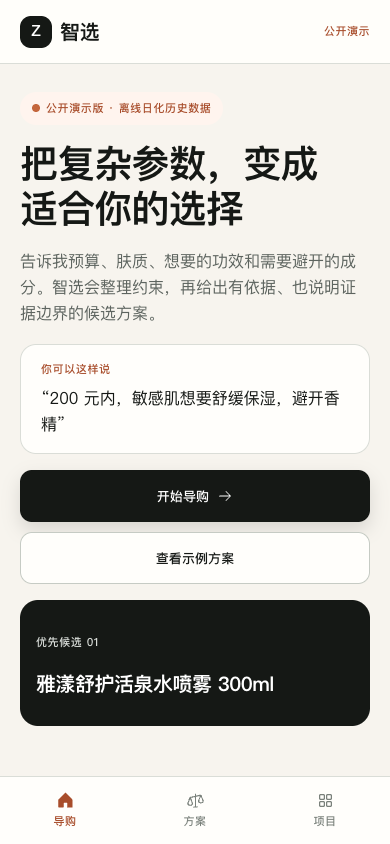
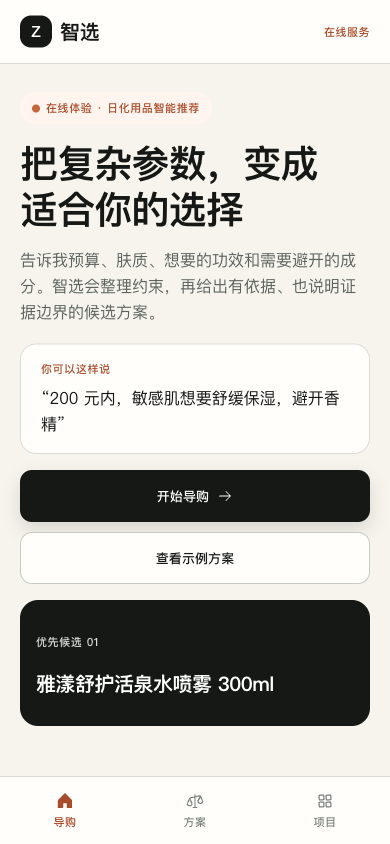
feat: connect Zhixuan to Doubao Agent Plan

diff --git a/app/page.tsx b/app/page.tsx
@@ -97,7 +97,7 @@ function Header({ view, onNavigate }: { view: View; onNavigate: (next: View) => 
         <button className={planActive ? 'is-active' : ''} type="button" onClick={() => onNavigate('results')}>我的方案</button>
         <button className={view === 'project' ? 'is-active' : ''} type="button" onClick={() => onNavigate('project')}>项目说明</button>
       </nav>
-      <span className="mobile-demo-label">公开演示</span>
+      <span className="mobile-demo-label">在线服务</span>
     </header>
   );
 }
@@ -367,7 +367,7 @@ export default function Home() {
     if (view === 'welcome') return (
       <section className="welcome-view">
         <div className="hero-copy">
-          <span className="demo-chip"><span />公开演示版 · 离线日化历史数据</span>
+          <span className="demo-chip"><span />在线体验 · 日化用品智能推荐</span>
           <h1 data-view-title tabIndex={-1}>把复杂参数，变成<br />适合你的选择</h1>
           <p>告诉我预算、肤质、想要的功效和需要避开的成分。智选会整理约束，再给出有依据、也说明证据边界的候选方案。</p>
           <div className="hero-actions">
@@ -378,13 +378,13 @@ export default function Home() {
             <span>你可以这样说</span><strong>“{defaultNeed}”</strong>
           </button>
           <div className="demo-disclosure"><Info aria-hidden="true" size={16} />豆包只解析当前需求；商品检索与证据约束在本地完成</div>
-          {dataError && <div className="inline-error"><span>演示数据暂时未载入。</span><button type="button" onClick={retryData}>重新载入</button></div>}
+          {dataError && <div className="inline-error"><span>商品数据暂时未载入。</span><button type="button" onClick={retryData}>重新载入</button></div>}
         </div>
         <div className="decision-preview">
           <div className="preview-heading"><h2>正在形成你的决策依据</h2><StatusChip tone={dataReady ? 'success' : 'warning'}>{dataReady ? '需求已确认' : '界面结构预览'}</StatusChip></div>
           <div className="preview-requirements"><span>面部护理</span><span>≤ ¥200</span><span>敏感肌</span><span>避开香精</span></div>
           <article className="preview-card">
-            <div><span className="priority-label">优先候选 01</span><strong>{previewTop ? '需求匹配分 ' + score(previewTop.score) : '等待演示数据'}</strong></div>
+            <div><span className="priority-label">优先候选 01</span><strong>{previewTop ? '需求匹配分 ' + score(previewTop.score) : '等待商品数据'}</strong></div>
             <h3>{previewTop?.product.name ?? '候选方案载入中'}</h3>
             <p>{previewTop?.product.description ?? '数据就绪后，这里会展示与预算、场景和优先条件对应的候选解释。'}</p>
             <div className="preview-tradeoff"><span>需要接受</span>{previewTop?.product.limitations ?? '同时说明候选的主要取舍'}</div>
@@ -419,7 +419,7 @@ export default function Home() {
               </div>
             )}
             {response && <div className="requirement-summary">{intentChips.map(([label, value]) => <div key={label}><span>{label}</span><strong>{value}</strong></div>)}</div>}
-            {dataError && <div className="inline-error"><span>演示数据暂时未载入。</span><button type="button" onClick={retryData}>重新载入</button></div>}
+            {dataError && <div className="inline-error"><span>商品数据暂时未载入。</span><button type="button" onClick={retryData}>重新载入</button></div>}
             <div className="composer-footer"><small>Ctrl / Command + Enter 快速提交</small><Button type="submit" disabled={!dataReady || !query.trim()} icon={<ArrowRight aria-hidden="true" size={16} />}>确认需求并推荐</Button></div>
           </form>
         </div>
@@ -573,10 +573,10 @@ export default function Home() {
         <div className="project-hero">
           <div>
             <span>项目说明 · 可复现 AI 产品作品集</span><h1 data-view-title tabIndex={-1}>从需求理解，到有依据的推荐决策</h1>
-            <p>智选是一个面向中文日化选品的公开演示：豆包在服务端解析用户需求，本地从清洗后的历史商品快照中检索，并以官方核实属性约束敏感肌、成分避雷与功效推荐。</p>
+            <p>智选是一个面向中文日化选品的在线 Agent：豆包在服务端解析用户需求，本地从清洗后的历史商品快照中检索，并以官方核实属性约束敏感肌、成分避雷与功效推荐。</p>
             <div className="project-actions"><Button onClick={() => navigate('welcome')} icon={<ArrowRight size={16} />}>体验智能导购</Button><a className="ui-button ui-button-secondary" href={githubBase} target="_blank" rel="noreferrer"><span>查看 GitHub</span><GithubLogo size={17} /></a><a className="ui-button ui-button-ghost" href={figmaUrl} target="_blank" rel="noreferrer"><span>查看 Figma</span></a></div>
           </div>
-          <div className="project-boundary"><ShieldCheck size={28} /><span>公开演示边界</span><p>不公开客户或订单明细，不调用实时商品服务，不用历史标题推断敏感肌安全性、完整成分或产品功效。</p></div>
+          <div className="project-boundary"><ShieldCheck size={28} /><span>服务边界</span><p>不公开客户或订单明细，不调用实时商品服务，不用历史标题推断敏感肌安全性、完整成分或产品功效。</p></div>
         </div>
         <div className="project-metrics">
           <MetricCard label="UNIQUE PRODUCTS" value={metrics?.dataset.products?.toLocaleString('zh-CN') ?? '—'} detail="去重后的历史商品记录" tone="accent" />
@@ -626,7 +626,7 @@ export default function Home() {
     <main className={'app-shell view-' + view}>
       <Header view={view} onNavigate={navigate} />
       {main}
-      <footer className="site-footer"><div><Logo /><span>公开展示版 · 离线日化历史数据与核实属性</span></div><a href={githubBase} target="_blank" rel="noreferrer"><GithubLogo size={17} />GitHub 项目</a></footer>
+      <footer className="site-footer"><div><Logo /><span>日化用品在线 Agent · 历史数据与核实属性</span></div><a href={githubBase} target="_blank" rel="noreferrer"><GithubLogo size={17} />GitHub 项目</a></footer>
       <MobileNav view={view} onNavigate={navigate} />
     </main>
   );

diff --git a/app/api/intent/route.ts b/app/api/intent/route.ts
@@ -3,8 +3,8 @@ import { normalizeIntent, understandIntent } from '../../../lib/agent';
 
 export const dynamic = 'force-dynamic';
 
-const DEFAULT_BASE_URL = 'https://ark.cn-beijing.volces.com/api/v3';
-const DEFAULT_MODEL = 'doubao-seed-2-0-lite-260215';
+const DEFAULT_BASE_URL = 'https://ark.cn-beijing.volces.com/api/plan/v3';
+const DEFAULT_MODEL = 'doubao-seed-2.0-lite';
 const RETRYABLE_STATUS = new Set([429, 502, 503, 504]);
 
 const intentParameters = {
@@ -49,6 +49,48 @@ const intentParameters = {
   ],
 } as const;
 
+const categoryValues = new Set(intentParameters.properties.category.enum);
+const skinTypeValues = new Set(intentParameters.properties.skinType.enum);
+const concernValues = new Set(intentParameters.properties.concerns.items.enum);
+const clarificationValues = new Set(['category', 'budget', 'skin_type', 'concern']);
+const intentFields = new Set(intentParameters.required);
+
+function isNullableNumber(value: unknown) {
+  return value === null || (typeof value === 'number' && Number.isFinite(value) && value >= 0 && value <= 50_000);
+}
+
+function isNullableBoolean(value: unknown) {
+  return value === null || typeof value === 'boolean';
+}
+
+function isStringArray(value: unknown, maximum: number, allowed?: Set<string>) {
+  return Array.isArray(value)
+    && value.length <= maximum
+    && value.every((item) => typeof item === 'string' && item.length > 0 && item.length <= 80 && (!allowed || allowed.has(item)));
+}
+
+function isIntentArguments(value: unknown): value is Record<string, unknown> {
+  if (!value || typeof value !== 'object' || Array.isArray(value)) return false;
+  const record = value as Record<string, unknown>;
+  if (!intentParameters.required.every((key) => Object.hasOwn(record, key))) return false;
+  if (!Object.keys(record).every((key) => intentFields.has(key as typeof intentParameters.required[number]))) return false;
+  if (typeof record.category !== 'string' || !categoryValues.has(record.category as typeof intentParameters.properties.category.enum[number])) return false;
+  if (!isStringArray(record.productTypes, 8)) return false;
+  if (!isNullableNumber(record.budgetMin) || !isNullableNumber(record.budgetMax)) return false;
+  if (typeof record.skinType !== 'string' || !skinTypeValues.has(record.skinType as typeof intentParameters.properties.skinType.enum[number])) return false;
+  if (!isNullableBoolean(record.sensitiveSkin)) return false;
+  if (!isStringArray(record.concerns, 10, concernValues as Set<string>)) return false;
+  if (!isStringArray(record.desiredEffects, 10)) return false;
+  if (!isStringArray(record.avoidIngredients, 12) || !isStringArray(record.preferredIngredients, 12)) return false;
+  if (!isNullableBoolean(record.avoidFragrance)) return false;
+  if (!isStringArray(record.preferredBrands, 8) || !isStringArray(record.excludedBrands, 8)) return false;
+  if (!isStringArray(record.keywords, 16)) return false;
+  if (typeof record.needsClarification !== 'boolean') return false;
+  if (record.clarificationField !== null && (typeof record.clarificationField !== 'string' || !clarificationValues.has(record.clarificationField))) return false;
+  if (record.needsClarification && record.clarificationField === null) return false;
+  return typeof record.confidence === 'number' && Number.isFinite(record.confidence) && record.confidence >= 0 && record.confidence <= 1;
+}
+
 function fallback(query: string, reason: string) {
   return NextResponse.json(
     { intent: understandIntent(query), provider: 'local-fallback', reason },
@@ -62,10 +104,12 @@ function sleep(milliseconds: number) {
 
 async function callArk(query: string, apiKey: string, model: string, signal: AbortSignal) {
   const configured = process.env.ARK_BASE_URL?.trim();
-  const baseUrl = configured?.startsWith('https://ark.cn-beijing.volces.com/api/v3') ? configured.replace(/\/$/, '') : DEFAULT_BASE_URL;
+  const normalizedBaseUrl = configured?.replace(/\/+$/, '');
+  const baseUrl = normalizedBaseUrl === DEFAULT_BASE_URL ? normalizedBaseUrl : DEFAULT_BASE_URL;
   const body = {
     model,
     store: false,
+    thinking: { type: 'disabled' },
     input: [
       {
         role: 'system',
@@ -78,7 +122,6 @@ async function callArk(query: string, apiKey: string, model: string, signal: Abo
         type: 'function',
         name: 'extract_personal_care_intent',
         description: '抽取日化与美妆选品需求，仅输出用户显式表达或高置信推断的约束。',
-        strict: true,
         parameters: intentParameters,
       },
     ],
@@ -132,8 +175,13 @@ export async function POST(request: Request) {
     };
     const call = data.output?.find((item) => item.type === 'function_call' && item.name === 'extract_personal_care_intent');
     if (!call?.arguments) return fallback(query, 'missing_function_call');
-    const parsed = typeof call.arguments === 'string' ? JSON.parse(call.arguments) : call.arguments;
-    if (!parsed || typeof parsed !== 'object' || Array.isArray(parsed)) return fallback(query, 'invalid_function_arguments');
+    let parsed: unknown;
+    try {
+      parsed = typeof call.arguments === 'string' ? JSON.parse(call.arguments) : call.arguments;
+    } catch {
+      return fallback(query, 'invalid_function_arguments');
+    }
+    if (!isIntentArguments(parsed)) return fallback(query, 'invalid_function_arguments');
     const intent = normalizeIntent({ ...parsed, provider: 'doubao' }, query);
     return NextResponse.json(
       { intent, provider: 'doubao' },

diff --git a/README.md b/README.md
@@ -1,10 +1,10 @@
-# 智选 Agent：离线日化商品智能选购
+# 智选 Agent：日化用品智能推荐
 
-## [立即体验在线演示 →](https://zhixuan-agent-cn.plupluto.chatgpt.site)
+## [立即体验智选 Agent →](https://zhixuan-agent-cn.plupluto.chatgpt.site)
 
 无需登录。用户可以用中文描述预算、日化品类、肤质、希望获得的功效和需要避开的成分；智选会先整理需求，再从本地商品目录返回可比较的候选与证据说明。
 
-**[打开在线演示](https://zhixuan-agent-cn.plupluto.chatgpt.site)** · [阅读项目文档](#作品集文档) · [查看复现方法](#本地复现)
+**[打开智选 Agent](https://zhixuan-agent-cn.plupluto.chatgpt.site)** · [阅读项目文档](#作品集文档) · [查看复现方法](#本地复现)
 
 **[查看 Figma 设计与交互原型](https://www.figma.com/design/0cQqKzVoOS9376uWrMgwGV)** · [阅读设计交付说明](design/figma/README.md)
 
@@ -17,7 +17,7 @@
 | 模块 | 实际内容 |
 |---|---|
 | 商品目录 | 3,497 个去重商品、22 个店铺字段；样本价字段完整率 100%，历史销量或评论信号覆盖率 91.3926% |
-| 豆包需求理解 | `/api/intent` 在服务端使用 Ark Responses API 的严格 Function Calling；只发送当前需求文本和输出结构 |
+| 豆包需求理解 | `/api/intent` 在服务端使用 Agent Plan Responses API 的命名 Function Calling，并在服务端校验完整参数；只发送当前需求文本和输出结构 |
 | 本地降级 | 缺少 `ARK_API_KEY`、6 秒超时、上游错误或函数调用无效时，返回确定性本地解析结果 |
 | 基础检索 | 按品类、产品类型、预算区间和品牌条件过滤，再结合需求词、样本价、证据与历史热度排序 |
 | 官方参考 | 5 个商品具有人工作成的当前品牌官方参考；其中敏感肌资格 3 个、成分避雷资格 4 个、功效资格 4 个 |
@@ -28,16 +28,16 @@
 
 ```mermaid
 flowchart LR
-    A[当前中文需求] --> B[/api/intent]
-    B --> C[豆包 Function Calling]
-    B -->|缺 Key / 超时 / 上游失败| D[本地规则解析]
-    C --> E[normalizeIntent]
+    A["当前中文需求"] --> B["/api/intent"]
+    B --> C["豆包 Function Calling"]
+    B -->|"缺 Key / 超时 / 上游失败"| D["本地规则解析"]
+    C --> E["normalizeIntent"]
     D --> E
-    E -->|缺预算| F[预算澄清]
-    E -->|预算完整| G[本地商品过滤]
-    G --> H[核实资格门槛]
-    H --> I[可解释排序]
-    I --> J[Top 3 与证据说明]
+    E -->|"缺预算"| F["预算澄清"]
+    E -->|"预算完整"| G["本地商品过滤"]
+    G --> H["核实资格门槛"]
+    H --> I["可解释排序"]
+    I --> J["Top 3 与证据说明"]
 ```
 
 豆包请求设置 `store: false`。商品目录、官方参考表和销售聚合不会进入模型请求。模型只负责需求字段抽取；商品名称、成分、品牌声明、样本价和推荐结果均由本地数据与代码决定。
@@ -79,8 +79,8 @@ cp .env.example .env.local
 
 ```bash
 ARK_API_KEY=
-ARK_MODEL=doubao-seed-2-0-lite-260215
-ARK_BASE_URL=https://ark.cn-beijing.volces.com/api/v3
+ARK_MODEL=doubao-seed-2.0-lite
+ARK_BASE_URL=https://ark.cn-beijing.volces.com/api/plan/v3
 BEAUTY_CSV_PATH="/absolute/path/to/beauty-snapshot.csv"
 DAILY_XLSX_PATH="/absolute/path/to/daily-chemicals.xlsx"
 ```
@@ -105,6 +105,8 @@ npm run dev
 ```
 
 打开 `http://localhost:3000`。`.env*` 已被 Git 忽略，仅 `.env.example` 可提交；不要把真实密钥写入代码、JSON、截图、日志或提交记录。
+
+部署使用 **Agent Plan 专属 Key**。它必须配合 `/api/plan/v3`；通用 API Key 使用普通 `/api/v3`，两类 Key 不混用。智选直接指定 `doubao-seed-2.0-lite`，避免自动路由切换模型，并关闭深度思考以降低需求抽取延迟。
 
 ## 目录结构
 

diff --git a/docs/系统架构与RAG流程.md b/docs/系统架构与RAG流程.md
@@ -5,9 +5,9 @@
 ```mermaid
 flowchart TD
     U[1–500 字当前需求] --> API[POST /api/intent]
-    API -->|有 ARK_API_KEY| ARK[Ark Responses API]
+    API -->|有 ARK_API_KEY| ARK[Agent Plan Responses API]
     API -->|缺 Key / 超时 / 上游失败| LOCAL[understandIntent]
-    ARK --> FC[严格 Function Calling]
+    ARK --> FC[命名 Function Calling]
     FC --> N[normalizeIntent]
     LOCAL --> N
     N -->|缺预算| Q[预算澄清]
@@ -85,13 +85,15 @@ CSV
 - 空字符串或长度超过 500 字返回 400；
 - 正常豆包结果与本地降级结果显式返回 `Cache-Control: no-store`；当前 400/413 输入错误分支没有单独设置该响应头。
 
-### 4.2 Ark 调用
+### 4.2 Agent Plan 调用
 
-- 默认地址：`https://ark.cn-beijing.volces.com/api/v3`；
-- `ARK_BASE_URL` 只有以上述官方前缀开头时才会采用；
-- 默认模型：`doubao-seed-2-0-lite-260215`，可由 `ARK_MODEL` 覆盖；
+- 默认地址：`https://ark.cn-beijing.volces.com/api/plan/v3`；
+- `ARK_BASE_URL` 只有与上述 Agent Plan 官方地址完全一致时才会采用，其他值回退到默认地址；
+- 默认模型：`doubao-seed-2.0-lite`，可由 `ARK_MODEL` 覆盖；
+- 当前配置对应 Agent Plan 专属 Key，不与普通 `/api/v3` 的通用 API Key 混用；
+- 请求设置 `thinking: { "type": "disabled" }`，让结构化需求抽取保持较低延迟；
 - `store: false`；
-- 严格函数名：`extract_personal_care_intent`；
+- 强制函数名：`extract_personal_care_intent`，返回字段由服务端执行完整类型、枚举、长度和范围校验；
 - 429、502、503、504 最多重试一次，退避 220–399 ms；
 - 整体 AbortController 超时为 6 秒。
 

diff --git a/docs/产品需求文档_PRD.md b/docs/产品需求文档_PRD.md
@@ -44,7 +44,7 @@
 
 1. 用户输入“预算 200 元，敏感肌想保湿，避开香精”。
 2. 浏览器向 `/api/intent` 发送当前需求文本。
-3. 服务端使用豆包严格 Function Calling；缺 Key、超时、上游失败或函数调用无效时返回本地解析结果。
+3. 服务端强制豆包调用命名 Function，并校验完整参数；缺 Key、超时、上游失败或函数调用无效时返回本地解析结果。
 4. `normalizeIntent` 把远端字段转成应用使用的 `Intent`。
 5. 如果预算上限为空，系统进入既有预算澄清页；当前代码没有其他专门的澄清 UI。
 6. 检索按品类、产品类型、预算区间、排除品牌和高级资格过滤。
@@ -56,7 +56,7 @@
 | 编号 | 功能 | 实际验收 |
 |---|---|---|
 | F1 | 服务端需求解析 | `POST /api/intent` 接受 1–500 字需求；`Content-Length` 大于 4,096 字节时返回 413 |
-| F2 | 豆包调用 | 使用 `ARK_API_KEY`、`ARK_MODEL`、受限 `ARK_BASE_URL`；`store:false`；严格函数 `extract_personal_care_intent` |
+| F2 | 豆包调用 | 使用 `ARK_API_KEY`、`ARK_MODEL`、受限 `ARK_BASE_URL`；`store:false`；强制调用 `extract_personal_care_intent` 并由服务端校验字段 |
 | F3 | 降级 | 缺 Key、6 秒超时、上游非成功、缺函数调用或参数无效时返回 `provider=local-fallback` |
 | F4 | 预算澄清 | 预算为空时返回一个预算问题；选择预算后自动继续 |
 | F5 | 基础召回 | 品类、产品类型、`budgetMin`、预算上限和排除品牌执行硬过滤 |

diff --git a/design/figma/docs/设计系统与原型说明.md b/design/figma/docs/设计系统与原型说明.md
@@ -106,7 +106,7 @@
 
 - 浏览器向 `/api/intent` 发送当前需求文本；
 - `ARK_API_KEY` 只在服务端读取；
-- 请求只包含需求、System Prompt 和严格 Function Schema，不包含商品库；
+- 请求只包含需求、System Prompt 和 Function Schema，不包含商品库；返回参数由服务端校验；
 - 无 Key、6 秒超时或上游失败时自动使用本地解析；
 - 不增加登录、密钥输入、模型选择或平台授权界面。
 
